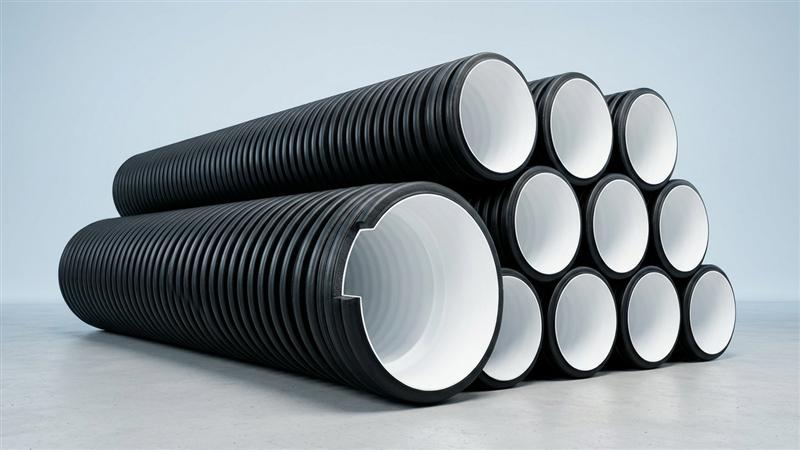
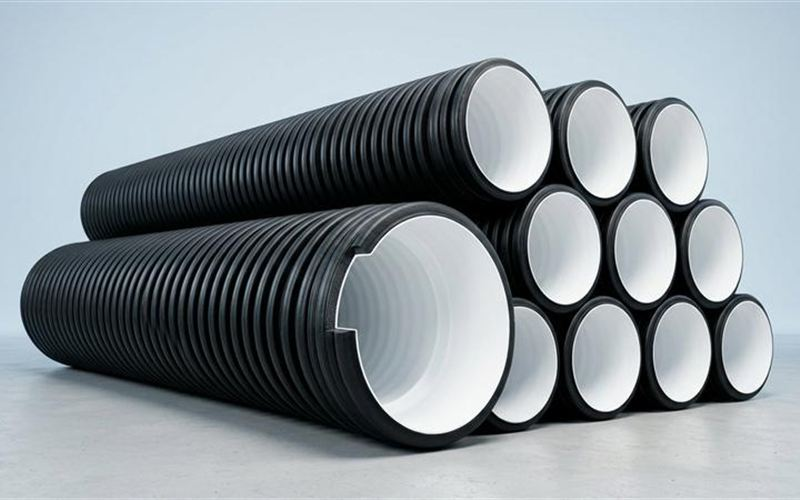
Ajusta proporcao comprida das imagens dos produtos

Changed region(s): [[0.0, 0.0933, 0.9688, 0.9022], [0.4688, 0.7778, 0.5, 0.84]]

diff --git a/js/catalogo.js b/js/catalogo.js
@@ -178,7 +178,7 @@
       var waMsg = encodeURIComponent('Olá, Prodesivo! Vi o catálogo de produtos e gostaria de solicitar um orçamento para: ' + p.nome + '.');
       return '<article class="cat-product-card" id="' + p.id + '">' +
         '<div class="cat-product-media">' +
-          '<img src="' + p.img + '" alt="' + p.nome + '" width="800" height="450" loading="lazy" decoding="async">' +
+          '<img src="' + p.img + '" alt="' + p.nome + '" width="800" height="500" loading="lazy" decoding="async">' +
           '<span class="cat-product-cat">' + p.categoria + '</span>' +
         '</div>' +
         '<div class="cat-product-body">' +

diff --git a/css/catalogo.css b/css/catalogo.css
@@ -241,15 +241,18 @@
 }
 .cat-product-media {
   position: relative;
-  aspect-ratio: 16 / 9;
-  background: #DCE7F0;
+  aspect-ratio: 16 / 10;
+  background: #fff;
   overflow: hidden;
+  border-bottom: 1px solid #EEF2F6;
 }
 .cat-product-media img {
   display: block;
   width: 100%;
   height: 100%;
-  object-fit: cover;
+  object-fit: contain;
+  padding: 6px;
+  background: #fff;
   transition: transform .45s ease;
 }
 .cat-product-card:hover .cat-product-media img {
